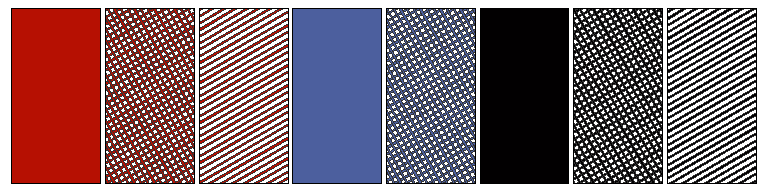
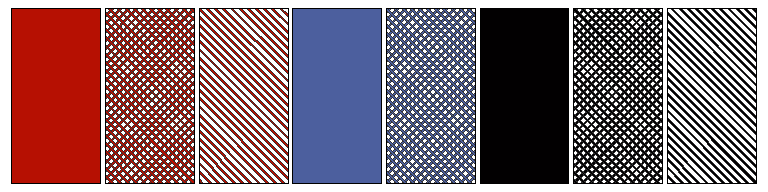
Fix pattern examples: swatch angles, legends, palette choice, glyph
- README swatches map pattern_angle, so they show each element's angle
- Literacy map: legend keys were grey (pattern_fill guide was "none")
- getting-started export bars used 3-element 1881_12 over 4 countries;
  now 1886_28
- getting-started transport chart: two legends (pattern_fill untitled)
  merged; y label's "x" sign drew a box (not in the Cheysson fonts)

diff --git a/README.md b/README.md
@@ -384,13 +384,14 @@ patterns <- cheysson_pattern("1886_24")
 n <- length(patterns)
 ggplot(data.frame(i = factor(seq_len(n))), aes(i, 1, fill = i)) +
   geom_col_pattern(
-    aes(pattern = i, pattern_fill = i),
+    aes(pattern = i, pattern_fill = i, pattern_angle = i),
     pattern_density = 0.35, pattern_spacing = 0.03,
     color = "black", width = 0.95
   ) +
   scale_fill_manual(values = cheysson_pattern_params(patterns, "fill")) +
   scale_pattern_fill_manual(values = cheysson_pattern_params(patterns, "pattern_fill")) +
   scale_pattern_manual(values = cheysson_pattern_params(patterns, "pattern_type")) +
+  scale_pattern_angle_manual(values = cheysson_pattern_params(patterns, "pattern_angle")) +
   theme_void() +
   theme(legend.position = "none")
 ```
